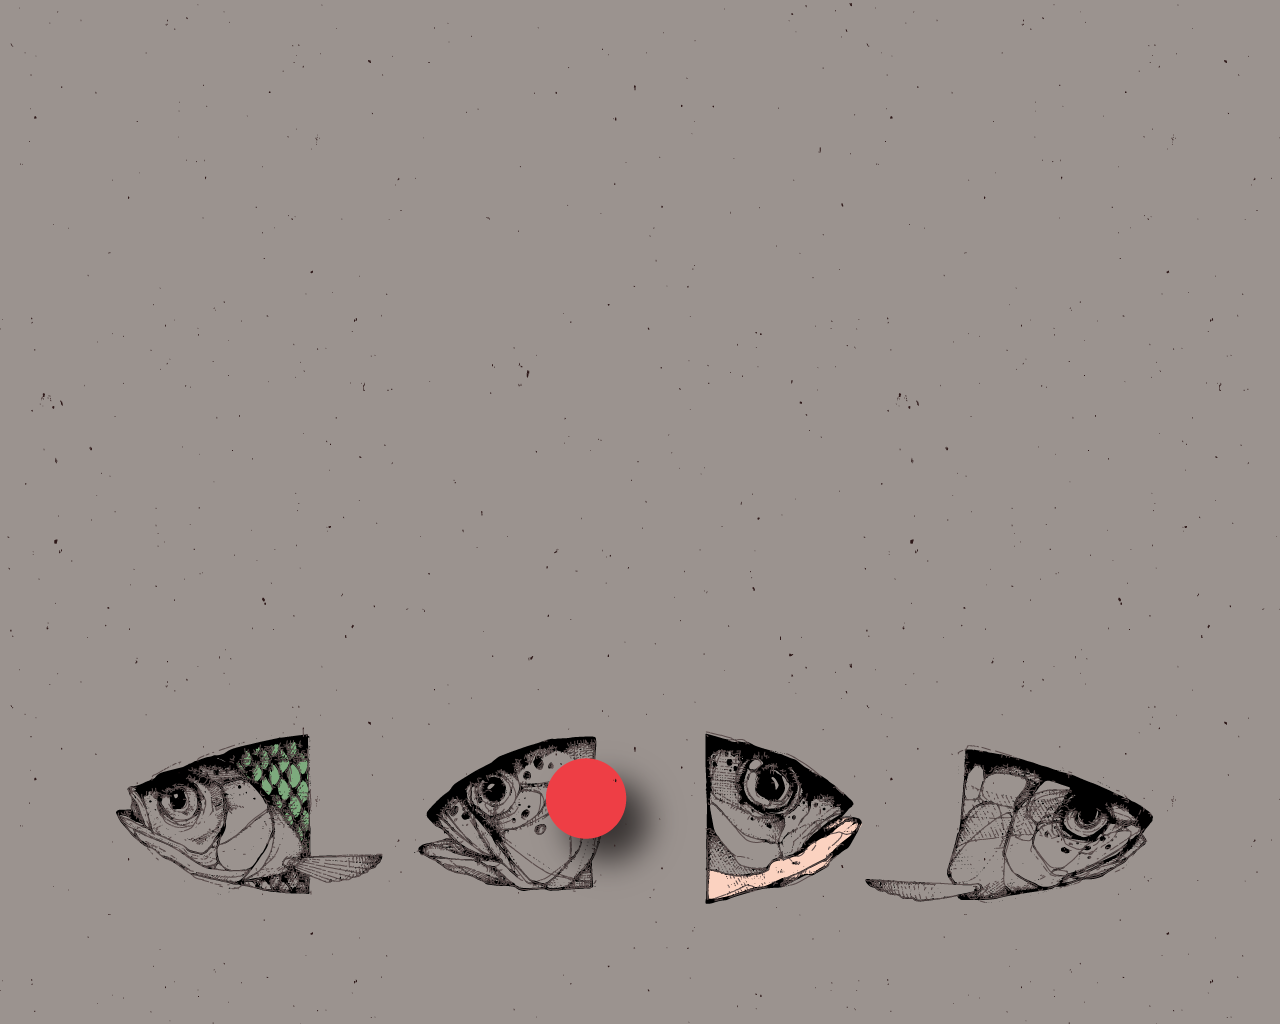
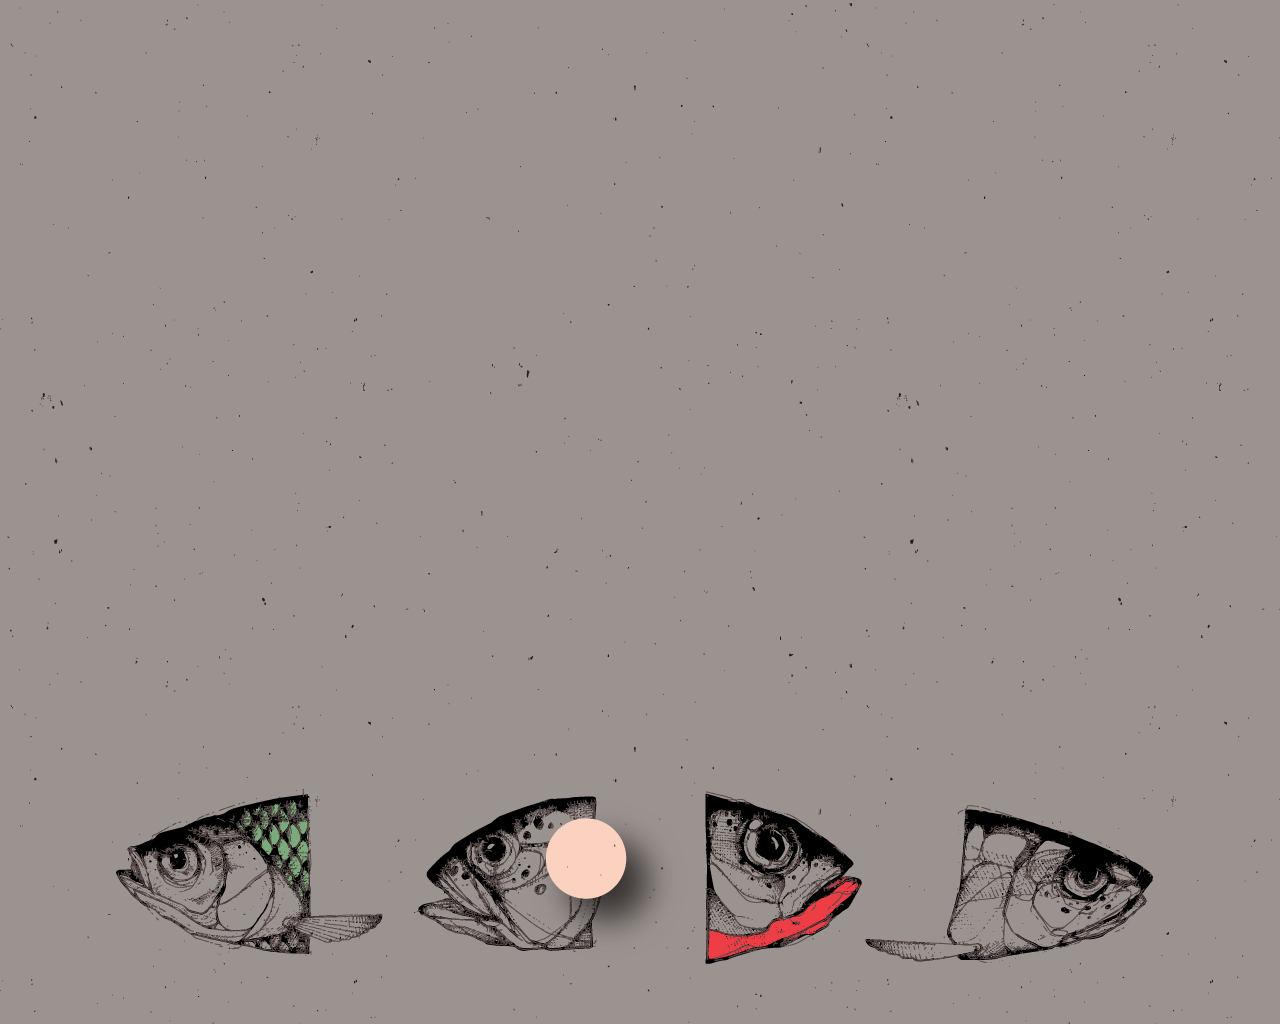
grid gap and similar setup

Changed region(s): [[0.0938, 0.7188, 0.9062, 0.9375]]

diff --git a/style.css b/style.css
@@ -18,10 +18,9 @@ p, h1, h2, h3 {
 .wrapper {
     display: flex;
     flex-direction: column;
-    align-items: space-between;
-    justify-content: center;
+    justify-content: space-between;
     height: 100vh;
-    background: url('./picture/gridBack.png') no-repeat center center/cover;
+    background: url('./picture/gridBack.png') no-repeat center bottom/cover;
 }
 
 /* navbar */
@@ -53,6 +52,7 @@ p, h1, h2, h3 {
                     border-radius: 5px;}
 #grid {
     display: grid;
+    grid-gap: 1rem;
     grid-template-columns: 1fr 3fr;
     grid-template-rows: 30vw 10vw;}
     #grid div:last-child {
@@ -60,6 +60,7 @@ p, h1, h2, h3 {
 
 .item {
     display: inline-block;
+    /* border: 1px solid black; */
 }
 button {
     background-color: Transparent;
@@ -150,7 +151,7 @@ span.icon {
                         background: url(/picture/icon06.svg);}
 
 #text {
-    padding: 1rem 2rem;
+    padding: 0.5rem 2rem;
     text-align: justify;
     font-size: 1.3rem;
     margin: 0 1rem;
@@ -161,8 +162,9 @@ span.icon {
     #text p, #text h2 {
         color: rgb(90, 76, 75);}
         #text p {
+            line-height: 1.2rem;
             font-family: 'Source Sans Pro' !important;}
-            
+
 /* explanation */
 #explanation {
     background: pink;

diff --git a/index.html b/index.html
@@ -40,7 +40,6 @@
                 <div class="item"  id="box">
                     <h1>KEDVENC</h1>
                     <div id="imgBack">
-
                         <img id='img' src="./picture/0101.svg" alt="">
                     </div>
                 </div>
